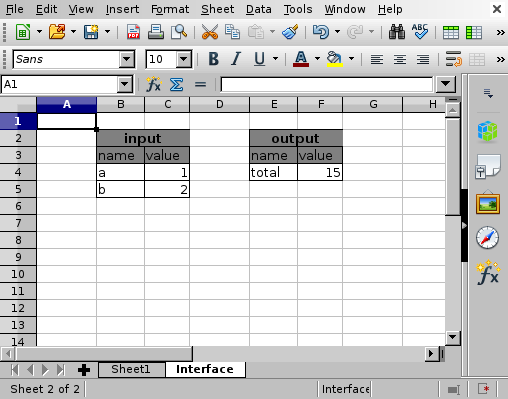
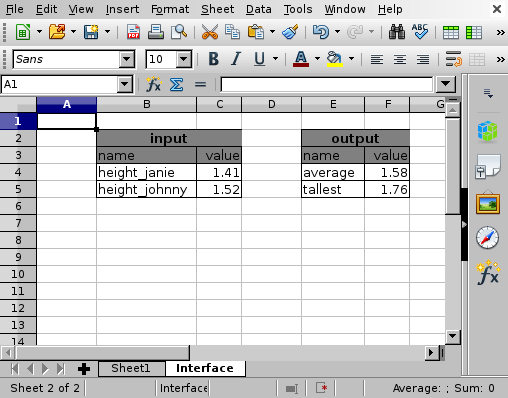
Updated documentation.

diff --git a/README.md b/README.md
@@ -1,6 +1,7 @@
 # SpreadScript: Use a spreadsheet as a function
-This project provides a way to use spreadsheets from the command line or from
-Python programs.
+This program provides a way to use spreadsheets from the command line or from
+Python programs. In this way, spreadsheets can be used in automated data
+analysis processes.
 
 The inputs and outputs are defined by two tables in a new sheet named
 "Interface". SpreadScript will read the input variables from column `B` and the
@@ -26,34 +27,38 @@ From source:
 
 
 ## Usage
-Suppose we have the following table.
+Suppose we have the following table with heights of family members.
 
 ![Example table.](data/example_table.png)
 
-If we want to define `a` and `b` as input variables and `total` as the output
-variable, we add a new sheet named "Interface".
+Since Janie and Johnny have not reached full height, we might want to export
+their heights as input variables. Suppose we are interested in the average
+height and the tallest person in this family. This information goes to the
+"Interface" sheet.
 
 ![Example interface.](data/example_interface.png)
 
-In this sheet we put the input variables in column `B` and the values in column
-`C`. The value of `C4` is `=$Sheet1.C3` and that of `C5` is `=$Sheet1.C4`.
+In this sheet we put the input variables in column `B` and references to the
+values in column `C`. The value of `C4` is `=$Sheet1.C5` and that of `C5` is
+`=$Sheet1.C6`.
 
-Likewise, the output variables are put in column `E` and the values in column
-`F`. The value of `F4` is `=$Sheet1.C8`.
+Likewise, the output variables are put in column `E` and references to the
+values in column `F`. The value of `F4` is `=$Sheet1.C7` and that of `F5` is
+`=$Sheet1.C9`.
 
 ### Command line interface
 With the command line interface, the input and output table can be read.
 
     $ spreadscript read_input data/test.ods
-    {"b": 2.0, "a": 1.0}
+    {"height_janie": 1.41, "height_johnny": 1.52}
 
     $ spreadscript read_output data/test.ods
-    {"total": 15.0}
+    {"tallest": 1.76, "average": 1.5775000000000001}
 
 To manipulate the input, use the `process` subcommand:
 
-    $ spreadscript process data/test.ods '{"b": 12.0}'
-    {"total": 25.0}
+    $ spreadscript process data/test.ods  '{"height_johnny": 1.56}'
+    {"tallest": 1.76, "average": 1.5875}
 
 
 ### Library
@@ -61,28 +66,25 @@ First import the `SpreadScript` class and load a spreadsheet.
 
 ```python
 >>> from spreadscript import SpreadScript
->>>
+>>> 
 >>> spreadsheet = SpreadScript('data/test.ods')
 ```
 
-The input variables can be read with the `read_input` method.
+The input and output variables can be read with the `read_input` and
+`read_output` methods respectively.
 
 ```python
 >>> spreadsheet.read_input()
-{'b': 2.0, 'a': 1.0}
-```
-
-The `read_output` method returns all output variables.
-
-```python
+{'height_johnny': 1.52, 'height_janie': 1.41}
+>>> 
 >>> spreadsheet.read_output()
-{'total': 15.0}
+{'average': 1.5775000000000001, 'tallest': 1.76}
 ```
 
 The `write_input` method is used to update any variables. 
 
 ```python
->>> spreadsheet.write_input({'b': 4.0})
+>>> spreadsheet.write_input({'height_johnny': 1.56})
 >>> spreadsheet.read_output()
-{'total': 17.0}
+{'average': 1.5875, 'tallest': 1.76}
 ```
